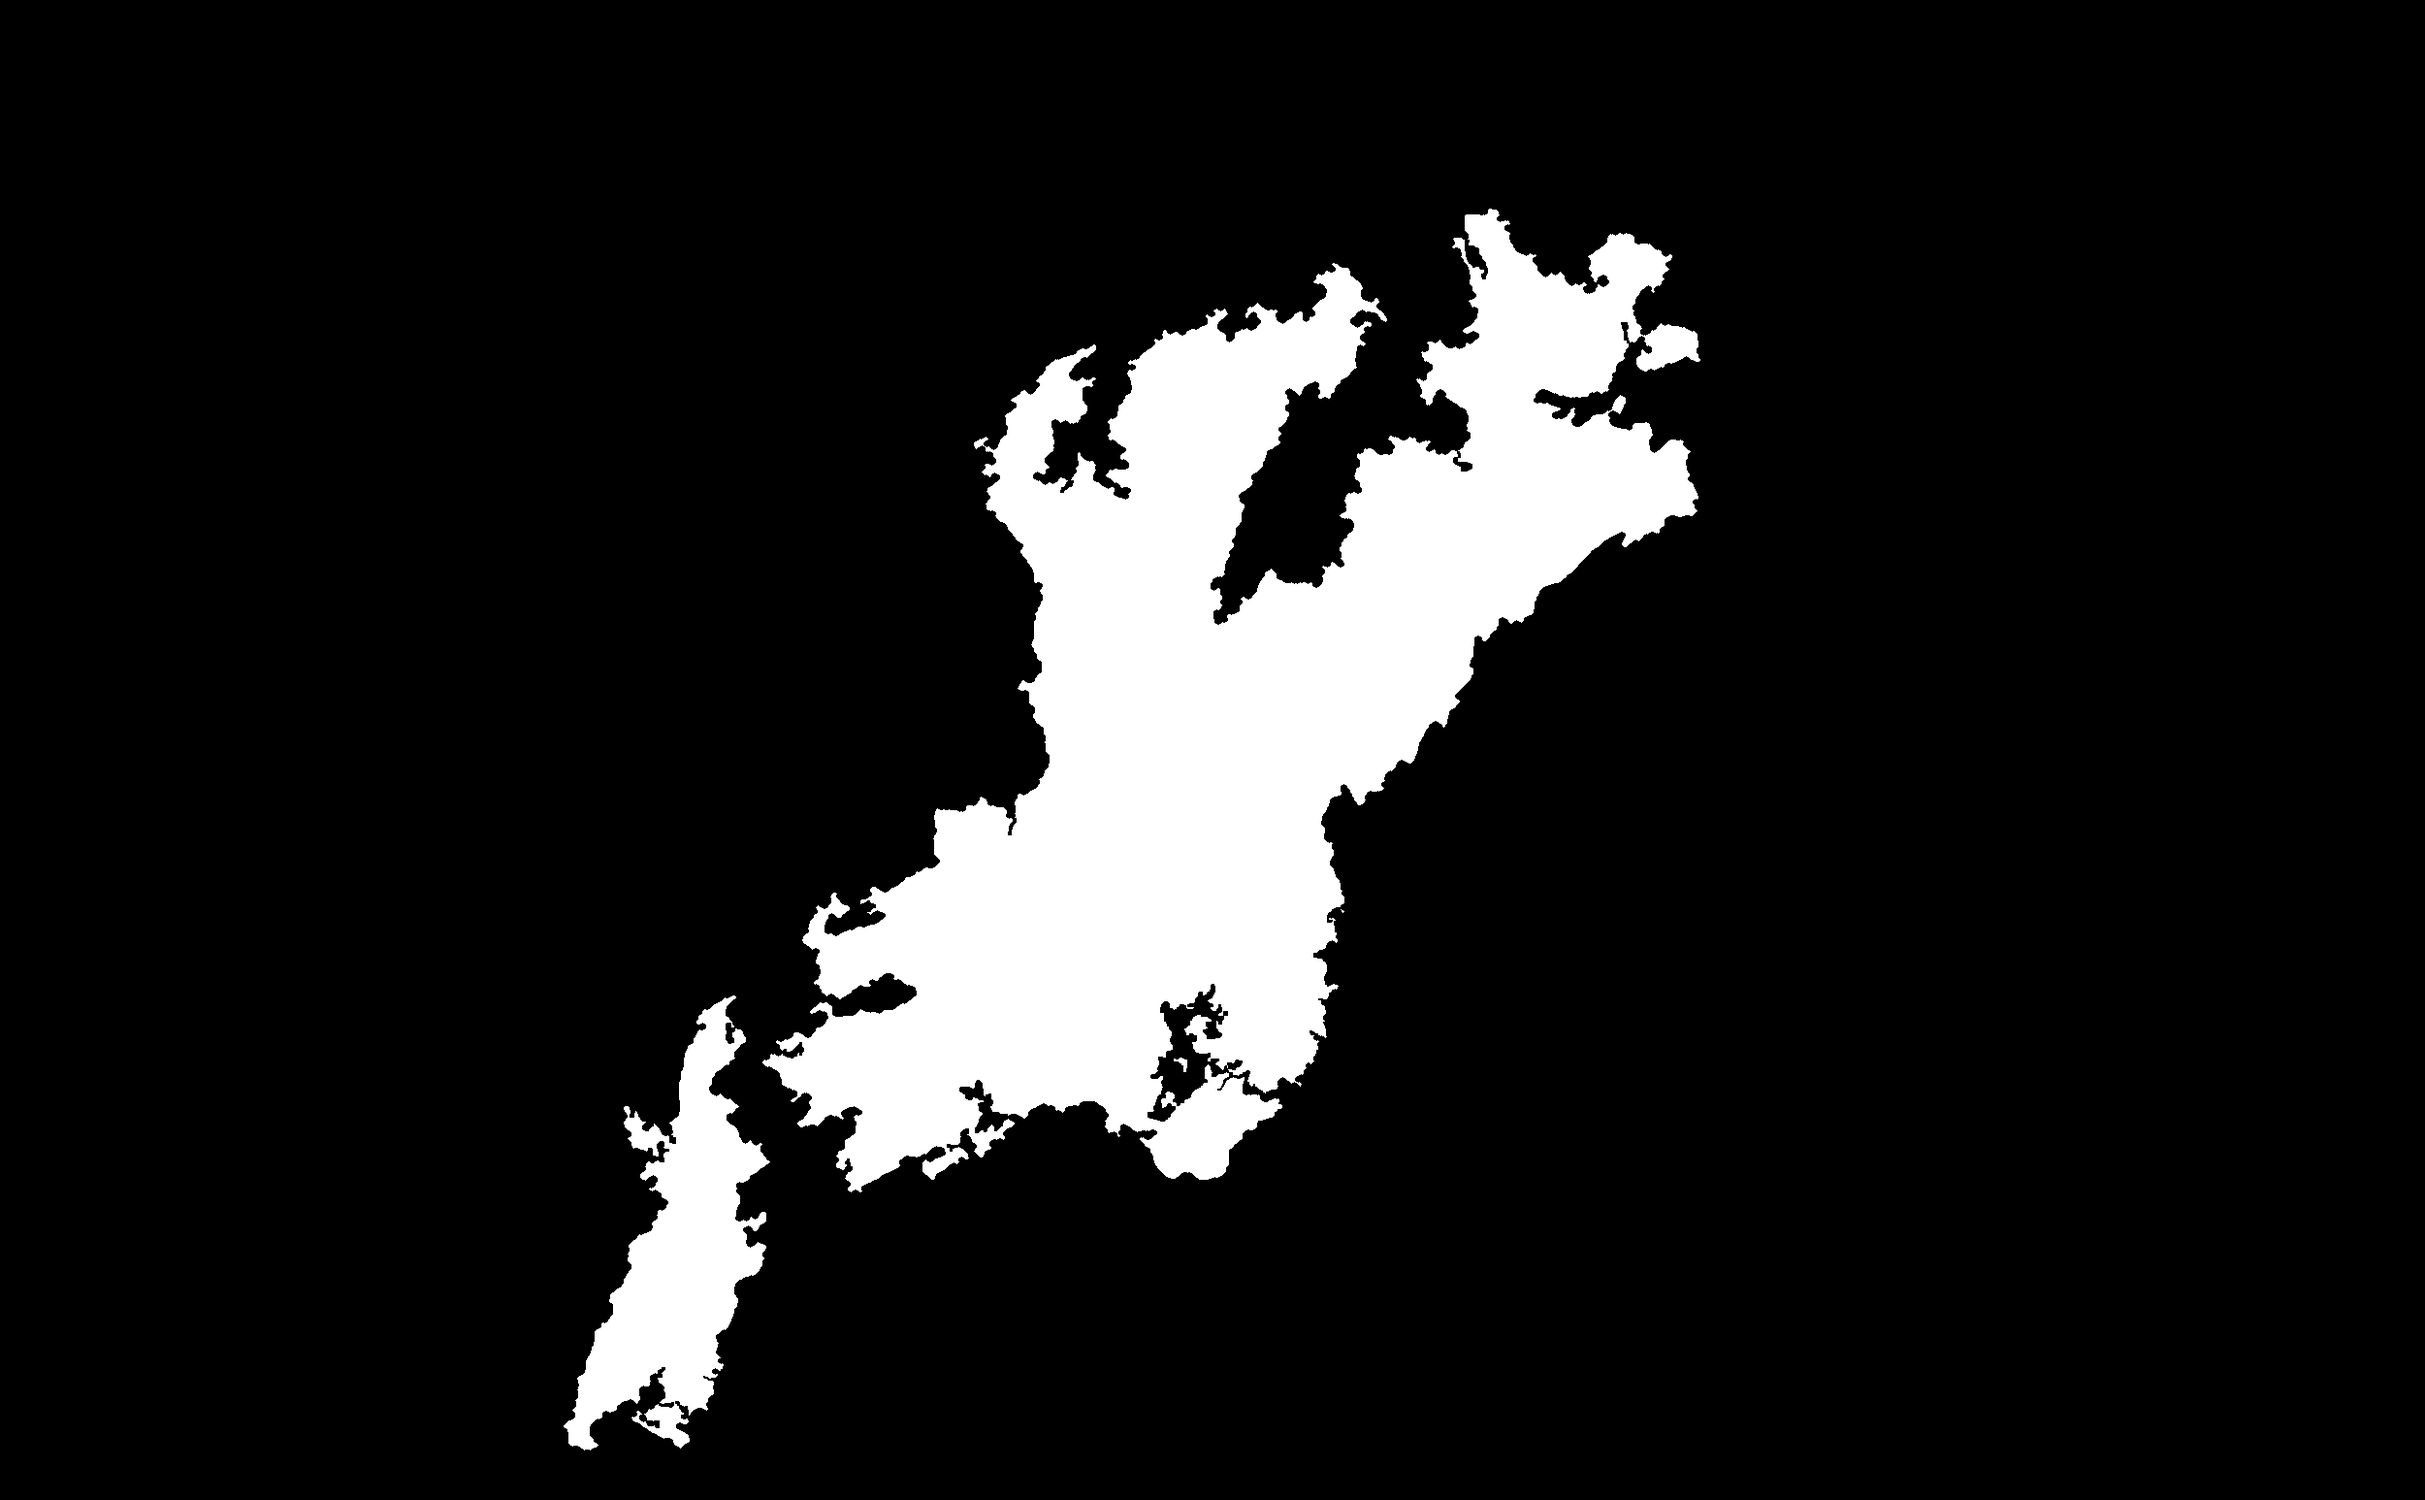
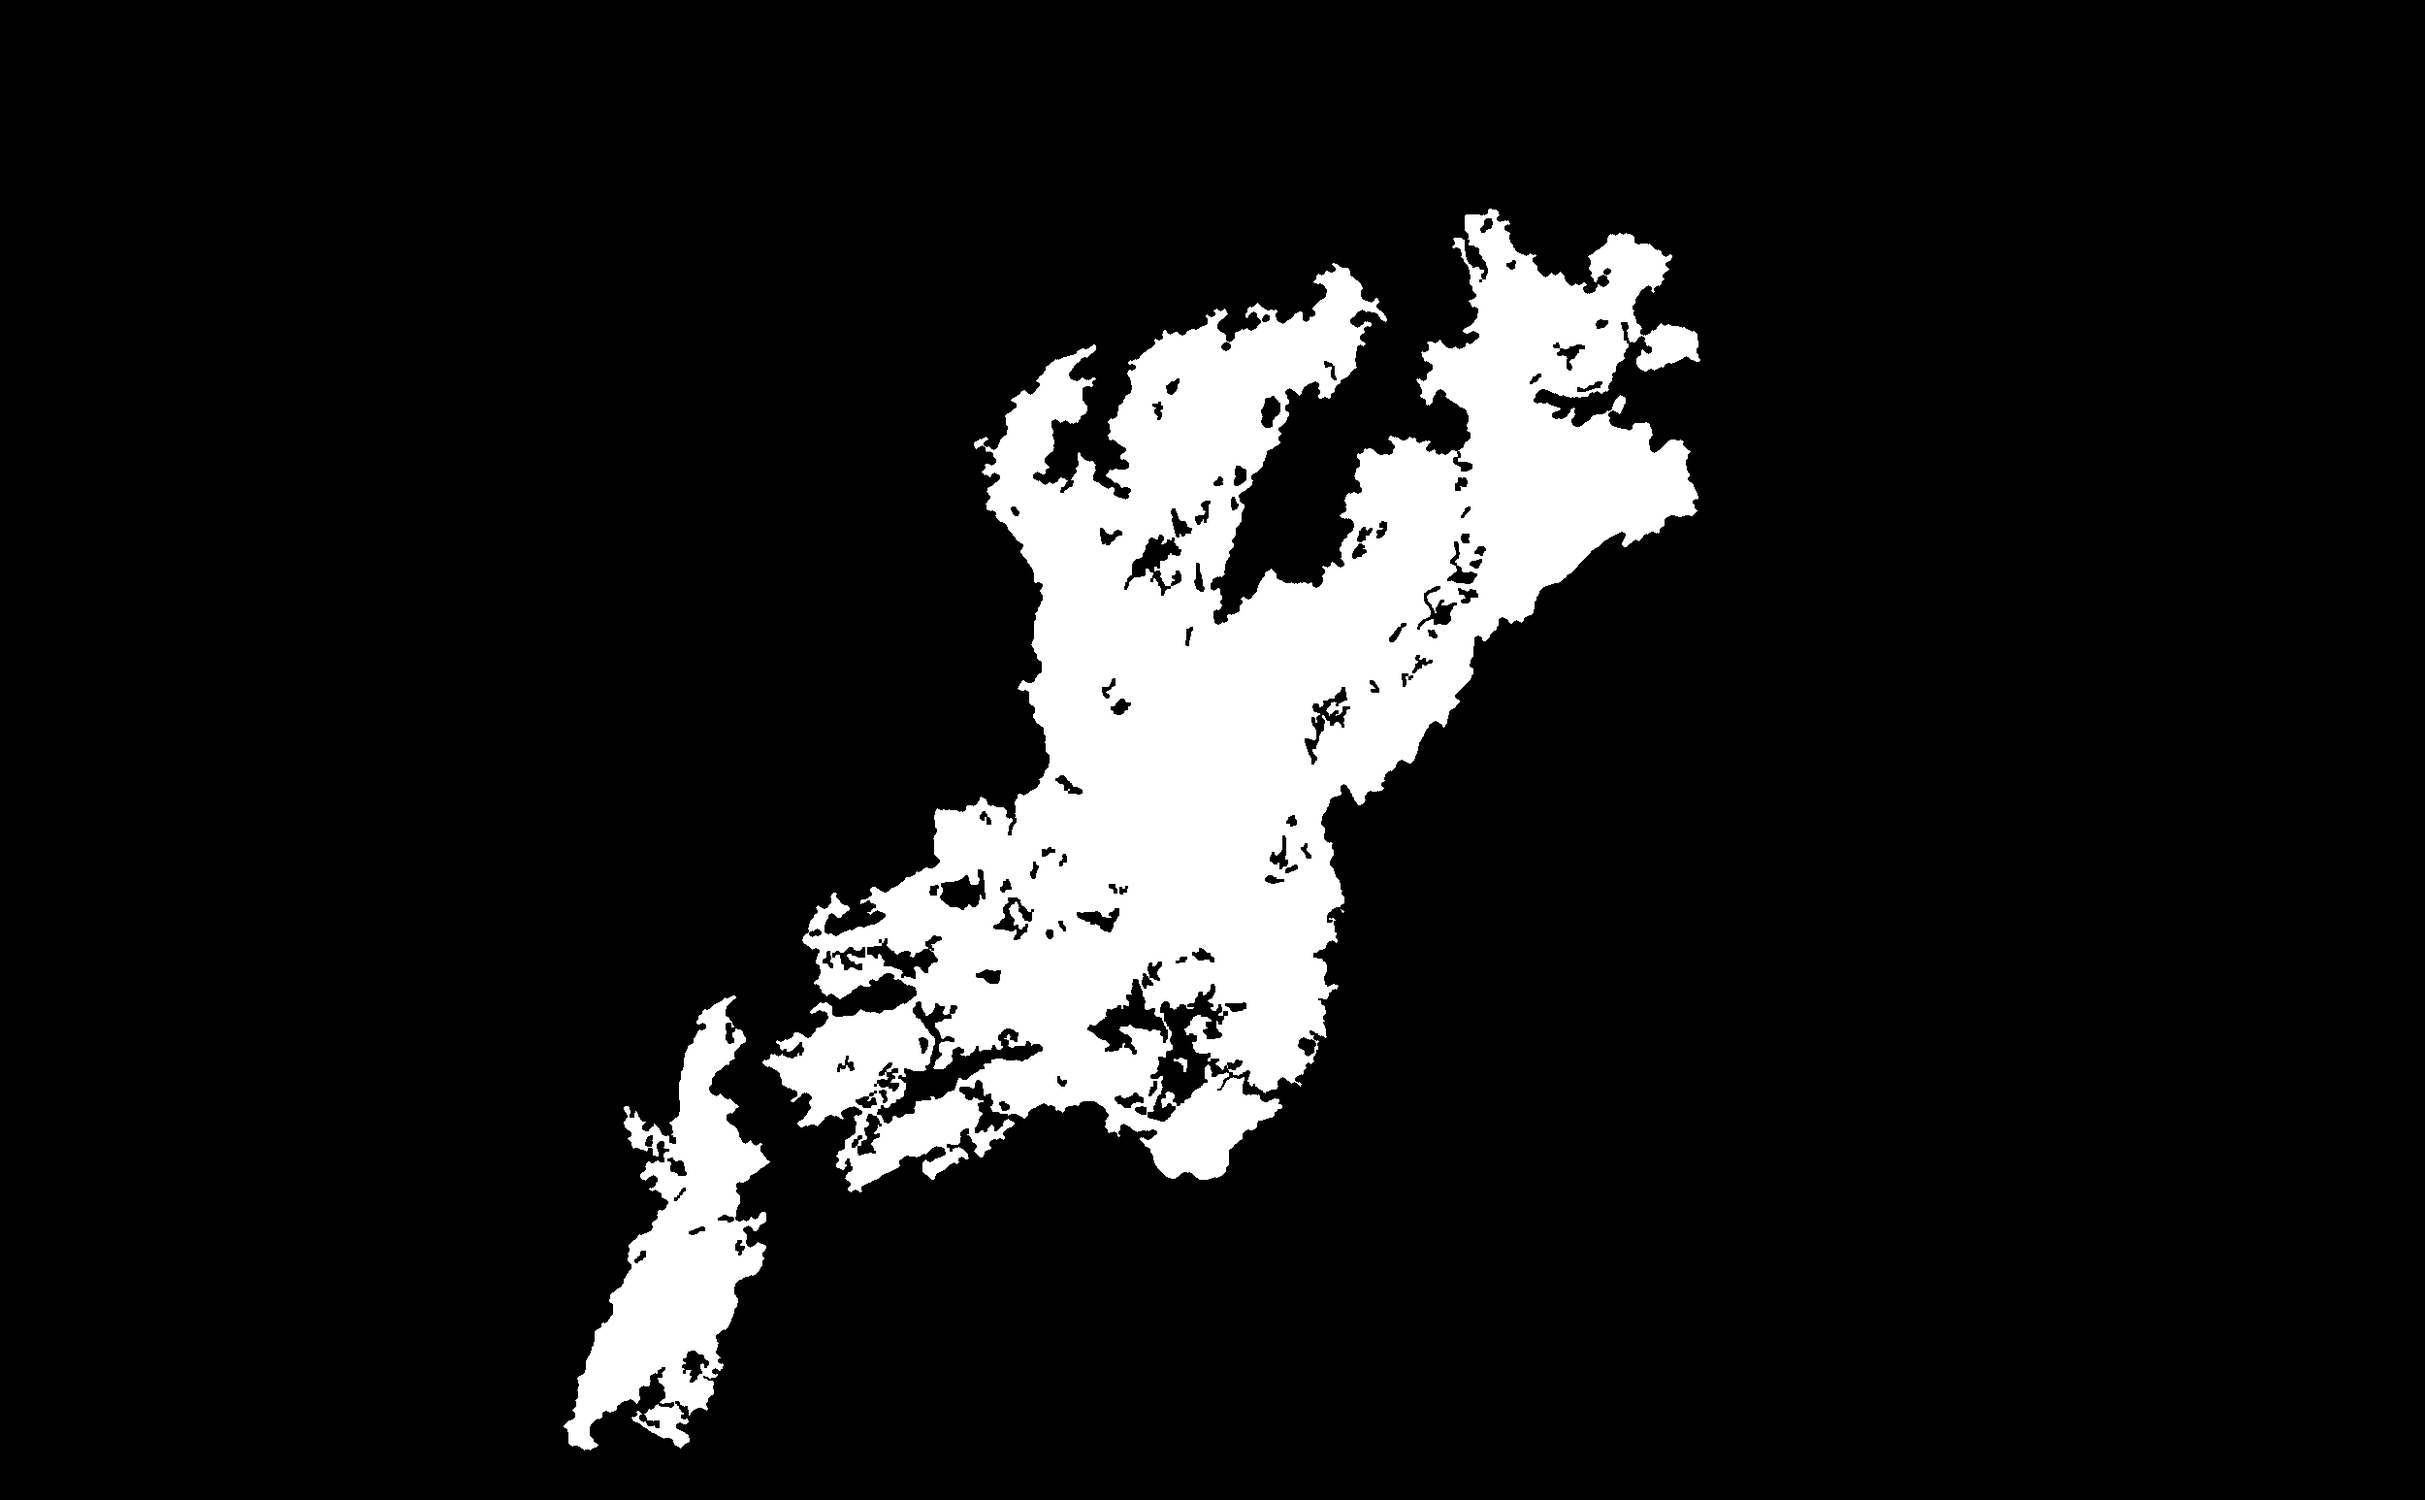
Perímetro de la app: dibujar también el borde de las islas sin quemar y embalses
- layers.py: la capa 'perimeter' ya no rellena los huecos; el visor dibuja exterior + huecos (RETR_CCOMP)
- ejemplos regenerados; 13 tests pasan

diff --git a/layers.py b/layers.py
@@ -14,7 +14,6 @@ from dataclasses import dataclass, field
 from typing import Callable
 
 import numpy as np
-from scipy.ndimage import binary_fill_holes
 
 
 @dataclass(frozen=True)
@@ -35,8 +34,9 @@ def _burn(ctx) -> np.ndarray:
 
 
 def _perimeter(ctx) -> np.ndarray:
-    # Lo que queda dentro del perímetro exterior: la cicatriz con sus islas sin quemar incluidas
-    return binary_fill_holes(ctx.burn)
+    # La cicatriz tal cual: el visor dibuja su borde exterior Y el de los huecos (islas sin quemar, embalses),
+    # igual que las imágenes de run.py
+    return ctx.burn.copy()
 
 
 def _fire(ctx) -> np.ndarray:
@@ -60,7 +60,7 @@ def _nodata(ctx) -> np.ndarray:
 LAYERS: list[Layer] = [
     Layer("burn", "Zona quemada", "Terreno que muestra la huella oscura y rojiza del fuego.",
           "#E8590C", "relleno", _burn, patron="diagonal", visible=True),
-    Layer("perimeter", "Perímetro del incendio", "Línea que rodea toda la zona afectada, incluidas las islas sin quemar.",
+    Layer("perimeter", "Perímetro del incendio", "Línea que rodea la zona afectada y también las islas sin quemar y los embalses que quedan dentro.",
           "#FFB000", "contorno", _perimeter, visible=True),
     Layer("fire", "Fuego activo", "Puntos muy calientes donde el fuego parece seguir encendido.",
           "#FF2E2E", "puntos", _fire, visible=True),
